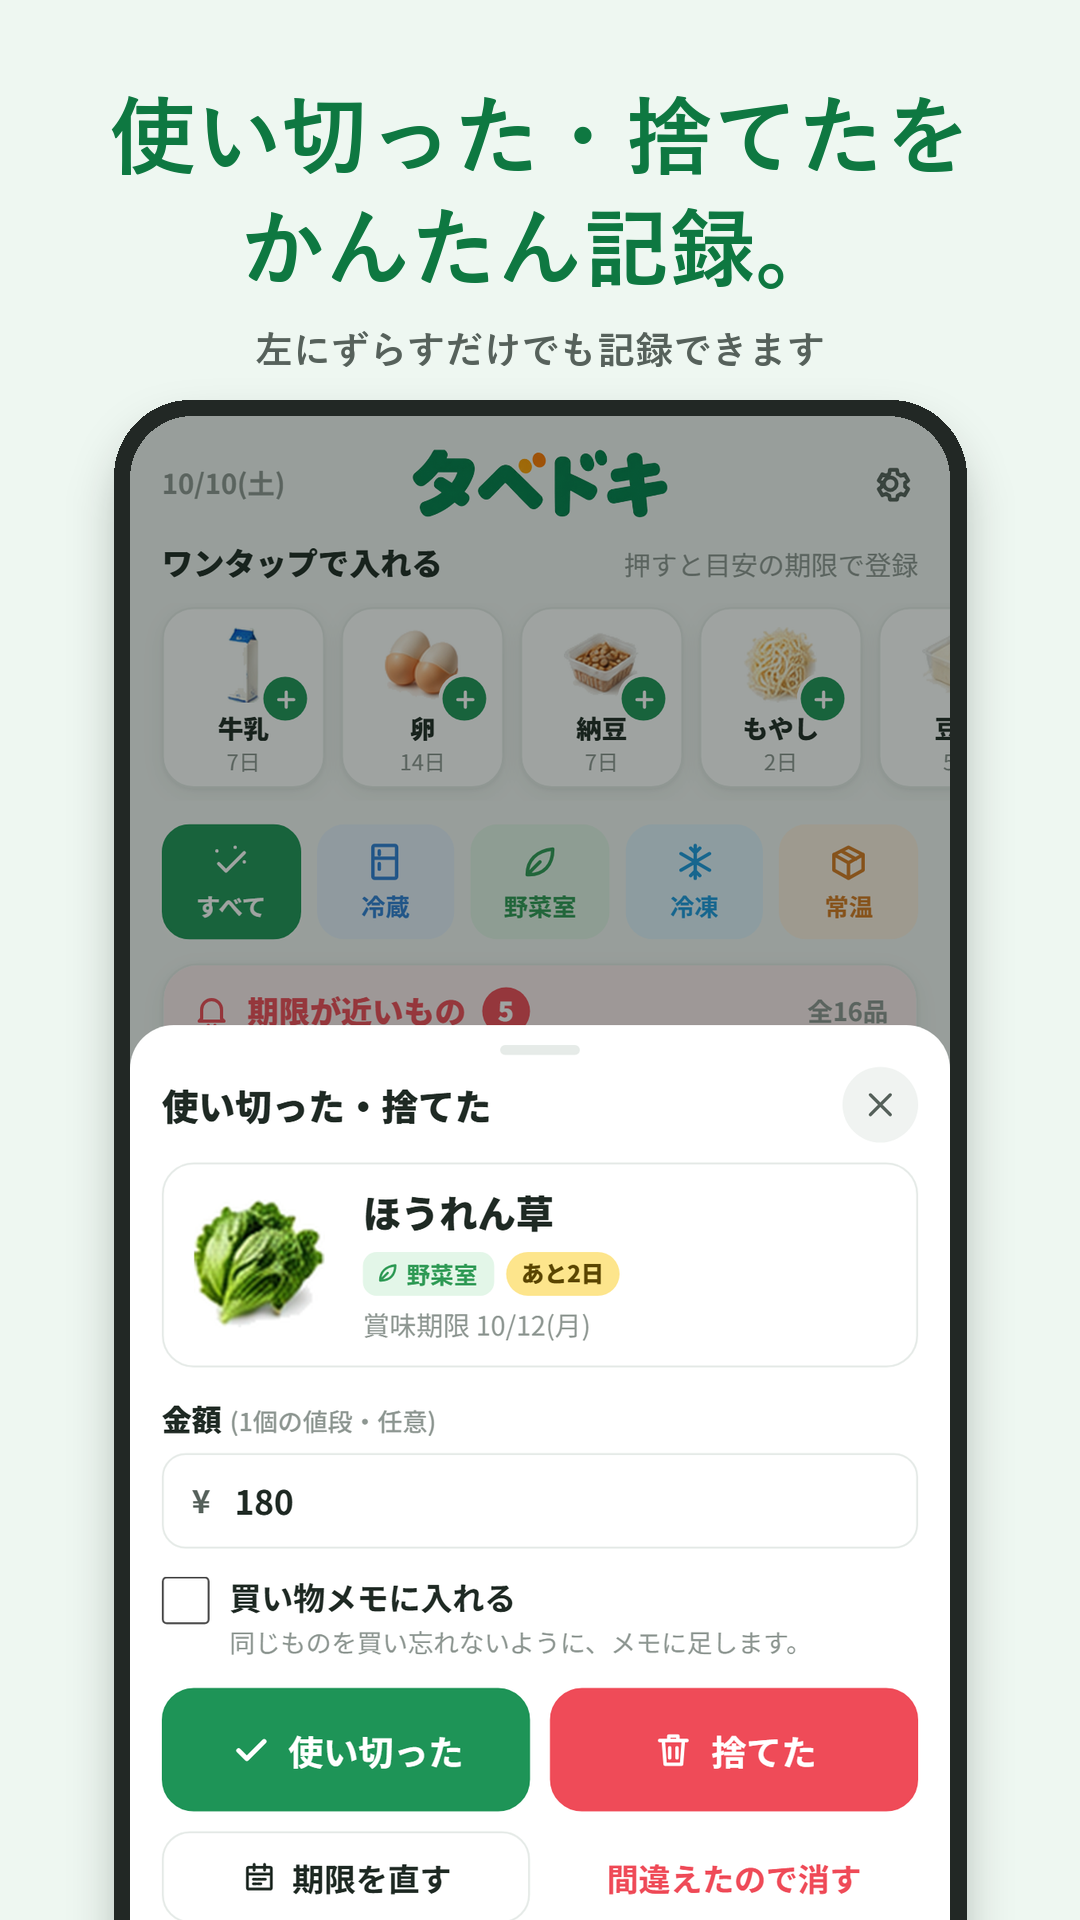
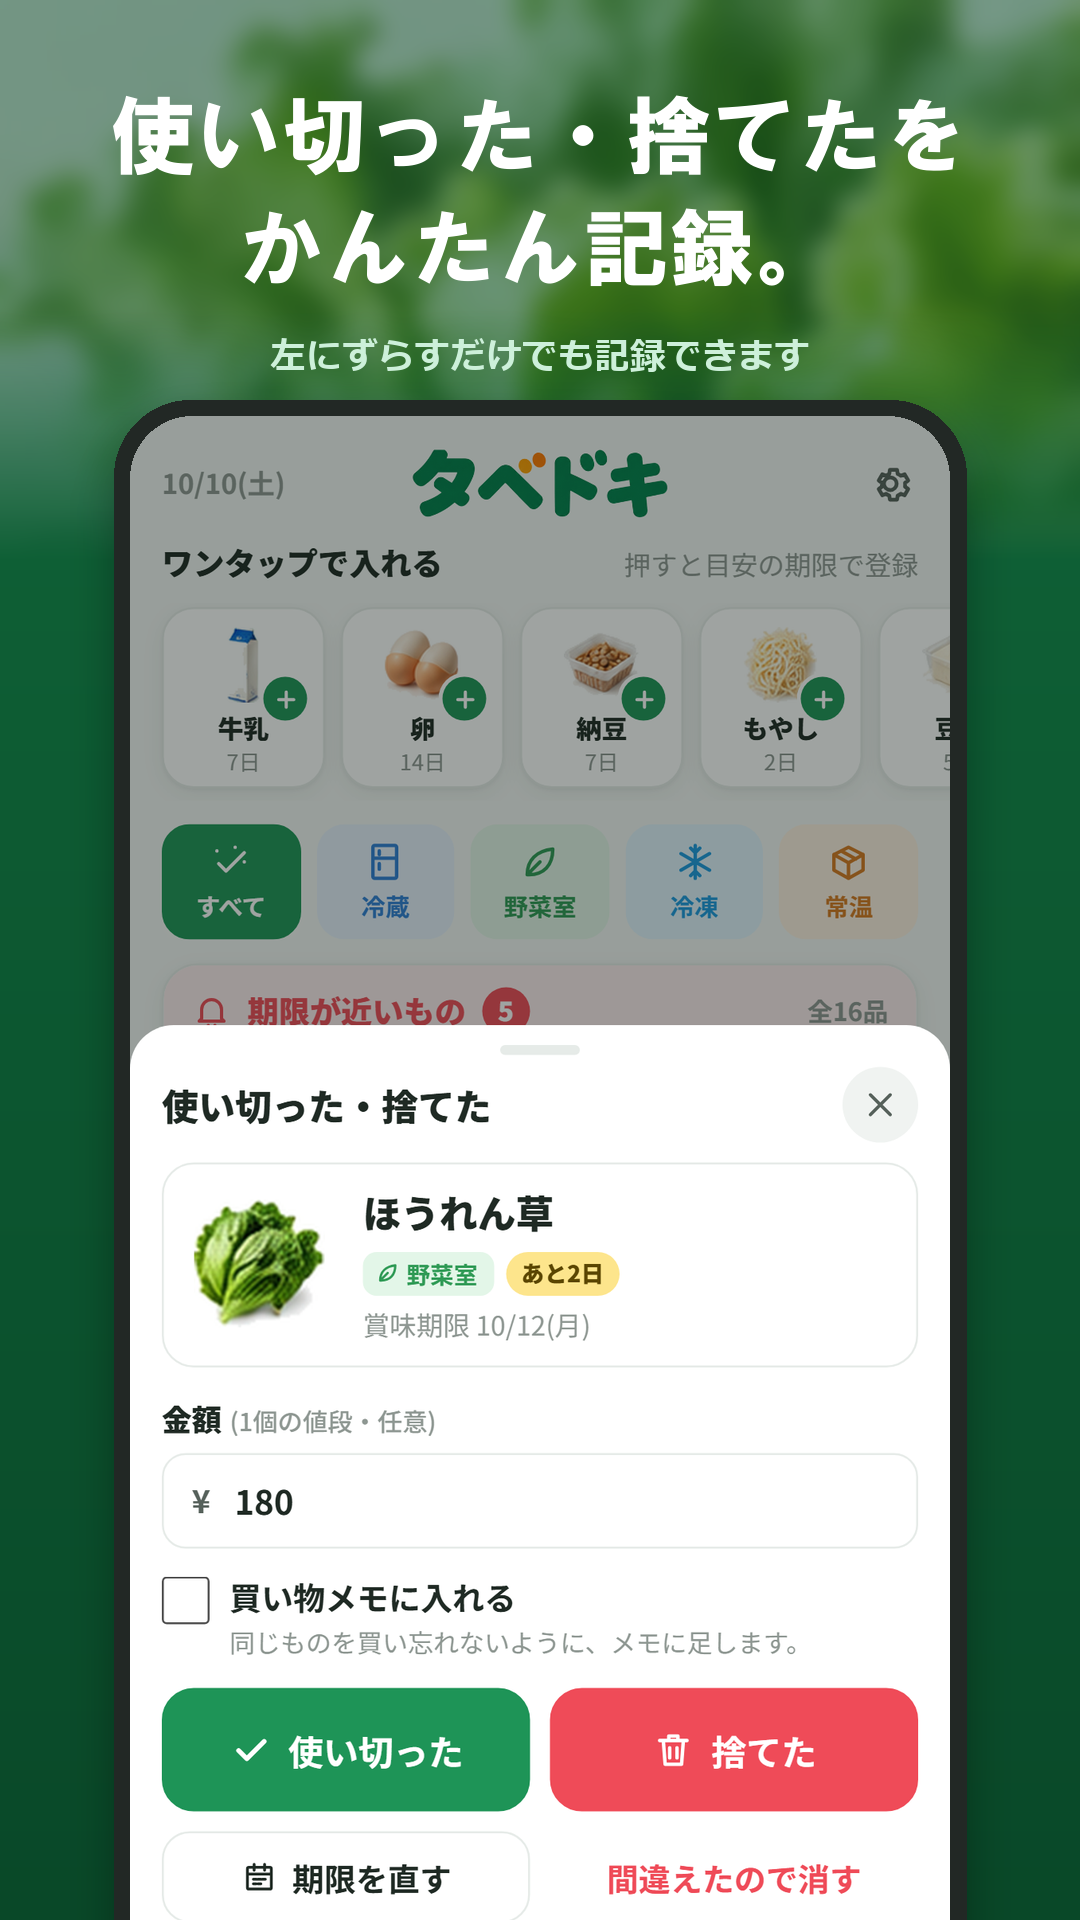
ストア画像の地を淡い緑の無地から濃い緑と野菜の写真に変える
見出しは白の HG創英角ゴシックUB。フィーチャーは野菜の写真を角丸で右に置く。
前の版は store/_cream_backup_2026-10-10/ に退避。

diff --git a/scripts/make_store.py b/scripts/make_store.py
@@ -3,7 +3,9 @@
 - store/play/feature_1024x500.png  … フィーチャー グラフィック(見本の野菜の絵・題字・アイコン)
 - store/play/play_shot_1〜6.png    … 1080x1920。見本データで撮った画面(store/raw/play_*.png)に見出しを付ける
 値段・「無料」は写さない(完全版の画面・設定の完全版の帯は撮らない)。Android に無い機能(iPhone だけの物)も写さない。
-1.0 の素材は store/_old_2026-10-10/ に退避してある。iOS は出し直さないので App Store 用の shot_*.png は作らない。
+1.0 の素材は store/_old_2026-10-10/ に退避してある。
+2026-10-10 持ち主「Claude 特有の背景をなくして」: 淡い緑の無地をやめ、アプリの濃い緑の地に、野菜の写真(store/raw/veggies.png)を
+ぼかして上に敷く。見出しは白の HG創英角ゴシックUB。前の版は store/_cream_backup_2026-10-10/ に退避。iOS は出し直さないので App Store 用の shot_*.png は作らない。
 """
 import os
 import socket
@@ -21,11 +23,15 @@ IMG = os.path.join(ROOT, "public", "img")
 for d in (RAW, PLAY):
     os.makedirs(d, exist_ok=True)
 
-BG = (238, 247, 241)
+LEAF = (16, 104, 58)      # 地の濃い緑
+LEAF2 = (9, 72, 40)
+WHITE = (255, 255, 255)
+SUBG = (205, 240, 218)
 GREEN = (30, 148, 87)
 DEEP = (14, 120, 65)
 INK = (31, 42, 36)
-BOLD = "C:/Windows/Fonts/YuGothB.ttc"
+BOLD = "C:/Windows/Fonts/HGRSGU.TTC"
+SUBF = "C:/Windows/Fonts/meiryob.ttc"
 W, H = 1080, 1920
 
 
@@ -83,17 +89,40 @@ def centered(d, y, text, font, fill, w=W):
     d.text(((w - (bb[2] - bb[0])) // 2 - bb[0], y), text, font=font, fill=fill)
 
 
-def compose(n, raw, title, sub):
-    img = Image.new("RGB", (W, H), BG)
+def leaf_bg(w, h, band):
+    """濃い緑の縦グラデーションに、野菜の写真をぼかして上 band px に敷く(下へ溶かす)"""
+    img = Image.new("RGB", (w, h), LEAF)
     d = ImageDraw.Draw(img)
-    # 上の見出し(見本と同じ緑の太字)
+    for yy in range(h):
+        t = yy / h
+        d.line([(0, yy), (w, yy)], fill=tuple(round(LEAF[i] + (LEAF2[i] - LEAF[i]) * t) for i in range(3)))
+    if band <= 0:
+        return img
+    veg = Image.open(os.path.join(RAW, "veggies.png")).convert("RGB")
+    s = max(w / veg.width, band / veg.height)
+    veg = veg.resize((round(veg.width * s) + 1, round(veg.height * s) + 1), Image.LANCZOS)
+    veg = veg.crop(((veg.width - w) // 2, 0, (veg.width - w) // 2 + w, band)).filter(ImageFilter.GaussianBlur(w / 90))
+    veg = Image.blend(veg, Image.new("RGB", veg.size, LEAF2), 0.55)
+    m = Image.new("L", veg.size, 255)
+    mp = ImageDraw.Draw(m)
+    for yy in range(band):
+        t = yy / band
+        mp.line([(0, yy), (w, yy)], fill=round(255 * min(1.0, (1 - t) / 0.45)))
+    img.paste(veg, (0, 0), m)
+    return img
+
+
+def compose(n, raw, title, sub):
+    img = leaf_bg(W, H, 560)
+    d = ImageDraw.Draw(img)
+    # 上の見出し(白の HG創英角ゴシックUB)
     f1 = ImageFont.truetype(BOLD, 86)
-    f2 = ImageFont.truetype(BOLD, 38)
+    f2 = ImageFont.truetype(SUBF, 36)
     y = 92
     for ln in title.split("\n"):
-        centered(d, y, ln, f1, DEEP)
+        centered(d, y, ln, f1, WHITE)
         y += 112
-    centered(d, y + 14, sub, f2, (86, 97, 91))
+    centered(d, y + 14, sub, f2, SUBG)
     top = y + 100
     shot = Image.open(raw).convert("RGB")
     sw = 820
@@ -104,7 +133,7 @@ def compose(n, raw, title, sub):
     sh = shot.height
     x = (W - sw) // 2
     shadow = Image.new("RGBA", (W, H), (0, 0, 0, 0))
-    ImageDraw.Draw(shadow).rounded_rectangle([x - 8, top + 18, x + sw + 8, top + sh + 40], radius=70, fill=(20, 60, 40, 80))
+    ImageDraw.Draw(shadow).rounded_rectangle([x - 8, top + 18, x + sw + 8, top + sh + 40], radius=70, fill=(0, 20, 8, 120))
     shadow = shadow.filter(ImageFilter.GaussianBlur(24))
     img.paste(shadow, (0, 0), shadow)
     fr = Image.new("L", (W, H), 0)
@@ -118,21 +147,22 @@ def compose(n, raw, title, sub):
 
 def feature():
     fw, fh = 1024, 500
-    fg = Image.new("RGB", (fw, fh), (246, 251, 247))
+    fg = leaf_bg(fw, fh, 0)
     d = ImageDraw.Draw(fg)
-    veg = Image.open(os.path.join(RAW, "veggies.png")).convert("RGBA")
-    s = 430 / veg.height
-    veg = veg.resize((round(veg.width * s), 430), Image.LANCZOS)
-    # 切り出した絵の左と下の縁をぼかして地になじませる
-    from PIL import ImageChops
-    g = Image.new("L", veg.size, 255)
-    gp = g.load()
-    for yy in range(veg.height):
-        for xx in range(veg.width):
-            a = min(1.0, xx / 140) * min(1.0, (veg.height - 1 - yy) / 110)
-            gp[xx, yy] = round(255 * a)
-    veg.putalpha(ImageChops.multiply(veg.getchannel("A"), g))
-    fg.paste(veg, (fw - veg.width, 0), veg)
+    # 野菜の写真は右に角丸の写真として置く(縁を溶かすと白い縁が浮くため)
+    veg = Image.open(os.path.join(RAW, "veggies.png")).convert("RGB")
+    cw, chh = 330, 420
+    s = max(cw / veg.width, chh / veg.height)
+    veg = veg.resize((round(veg.width * s) + 1, round(veg.height * s) + 1), Image.LANCZOS)
+    veg = veg.crop((veg.width - cw, veg.height - chh, veg.width, veg.height))
+    vx, vy = fw - cw - 40, 40
+    sh0 = Image.new("RGBA", (fw, fh), (0, 0, 0, 0))
+    ImageDraw.Draw(sh0).rounded_rectangle([vx, vy + 10, vx + cw, vy + chh + 10], radius=30, fill=(0, 20, 8, 130))
+    sh0 = sh0.filter(ImageFilter.GaussianBlur(14))
+    fg.paste(sh0, (0, 0), sh0)
+    vm = Image.new("L", (cw, chh), 0)
+    ImageDraw.Draw(vm).rounded_rectangle([0, 0, cw - 1, chh - 1], radius=30, fill=255)
+    fg.paste(veg, (vx, vy), vm)
     icon = Image.open(os.path.join(STORE, "icon_1024.png")).convert("RGB").resize((150, 150), Image.LANCZOS)
     m = Image.new("L", icon.size, 0)
     ImageDraw.Draw(m).rounded_rectangle([0, 0, 149, 149], radius=34, fill=255)
@@ -144,12 +174,14 @@ def feature():
     logo = Image.open(os.path.join(IMG, "logo.png")).convert("RGBA")
     lw = 360
     logo = logo.resize((lw, round(logo.height * lw / logo.width)), Image.LANCZOS)
-    fg.paste(logo, (238, 84), logo)
+    wl = Image.new("RGBA", logo.size, WHITE + (0,))
+    wl.putalpha(logo.getchannel("A"))
+    fg.paste(wl, (238, 84), wl)
     f1 = ImageFont.truetype(BOLD, 50)
-    f2 = ImageFont.truetype(BOLD, 26)
-    d.text((62, 262), "冷蔵庫の食べ時、", font=f1, fill=DEEP)
-    d.text((62, 330), "ワンタップで。", font=f1, fill=DEEP)
-    d.text((64, 418), "よく買う食材は1タップ登録・期限の近い順・ムダ金額", font=f2, fill=(86, 97, 91))
+    f2 = ImageFont.truetype(SUBF, 21)
+    d.text((62, 262), "冷蔵庫の食べ時、", font=f1, fill=WHITE)
+    d.text((62, 330), "ワンタップで。", font=f1, fill=WHITE)
+    d.text((64, 420), "よく買う食材は1タップ登録・期限の近い順・ムダ金額", font=f2, fill=SUBG)
     fg.save(os.path.join(PLAY, "feature_1024x500.png"))
 
 

diff --git a/store/_cream_backup_2026-10-10/play/data_safety.md b/store/_cream_backup_2026-10-10/play/data_safety.md
@@ -1,0 +1,12 @@
+# データ セーフティの回答案
+
+- アプリはユーザーデータを収集または共有しますか: いいえ
+  - 冷蔵庫の中身・記録・買い物メモ・設定は端末内(SharedPreferences)だけに保存し、開発者のサーバーへ送らない。サーバーを持っていない
+  - 「共有ファイル」「バックアップ」「CSV」は利用者が自分で OS の共有シートから選んだ相手に渡すもので、アプリが自動で送るものではない(Google の定義では「収集」に当たらない: 利用者の操作による転送)
+- 課金: Google Play の購入処理と RevenueCat(購入の確認)を使う
+  - RevenueCat に送られるのは匿名の利用者ID と購入の記録。Google Play の定義で「購入履歴」を収集するかは、RevenueCat の「Google Play データ セーフティ」の案内に合わせて最終確認する(持ち主が登録時に確認)
+  - 案: 「購入履歴」= 収集する・共有しない・必須・目的=アプリの機能(購入の復元)・転送時の暗号化=はい
+- 転送時の暗号化: はい(購入の確認は HTTPS)
+- データの削除をリクエストできる: アプリを削除すると端末内のデータは消える。購入の記録はストアのアカウントに残る
+- 広告: なし(広告 ID を使わない)
+- アカウント作成: なし

diff --git a/store/_cream_backup_2026-10-10/play/listing.md b/store/_cream_backup_2026-10-10/play/listing.md
@@ -1,0 +1,29 @@
+# Google Play 掲載情報(日本語)
+
+## アプリ名(30字以内)
+タベドキ 賞味期限と冷蔵庫の管理
+
+## 簡単な説明(80字以内)
+よく買う食材はワンタップ登録。期限の近い順に並べ、前日にお知らせ。捨てた額も記録できます。
+
+## 詳しい説明(4000字以内)
+(store/listing_appstore.md の「説明」と同じ文)
+
+## アプリのカテゴリ
+食品&ドリンク
+
+## タグ
+食品・料理 / 買い物リスト / 家計
+
+## 連絡先
+メール: (持ち主のサポート用アドレスを入れる)
+プライバシーポリシーの URL: (store/privacy.md を公開ページに置いた URL)
+
+## 画像
+- アイコン: play/icon_512.png(512x512)
+- フィーチャー グラフィック: play/feature_1024x500.png
+- スマートフォンの画面写真: play/play_shot_1〜6.png(1080x1920、6枚。1.1.0 の見た目。値段・「無料」は写していない)
+- 1.0 の画像は store/_old_2026-10-10/ に退避
+
+## アプリ内アイテム
+- アイテムID: tabedoki_full / 名前: 完全版 / 種類: 1回限りのアイテム(買い切り) / 価格: ¥500

diff --git a/store/_cream_backup_2026-10-10/play/content_rating.md b/store/_cream_backup_2026-10-10/play/content_rating.md
@@ -1,0 +1,12 @@
+# コンテンツのレーティング(IARC)回答案
+
+- カテゴリ: 参考、ニュース、教育(または「その他すべてのアプリ」)→ ユーティリティ/生産性 として回答
+- 暴力: いいえ / 性的内容: いいえ / 不適切な言葉: いいえ / 薬物・アルコール・タバコ: いいえ
+- ギャンブル(模擬を含む): いいえ
+- ユーザー同士のやりとり・コンテンツの共有: いいえ(ファイルの受け渡しは OS の共有機能で、アプリ内に投稿の場は無い)
+- 位置情報の共有: いいえ
+- デジタル商品の購入: はい(アプリ内の買い切り「完全版」)
+- 見込み: 全年齢(IARC 3+ / CERO・全年齢相当)
+
+## ターゲット ユーザー
+- 対象年齢: 18歳以上(家庭の食材管理のため。子ども向けにしない)
